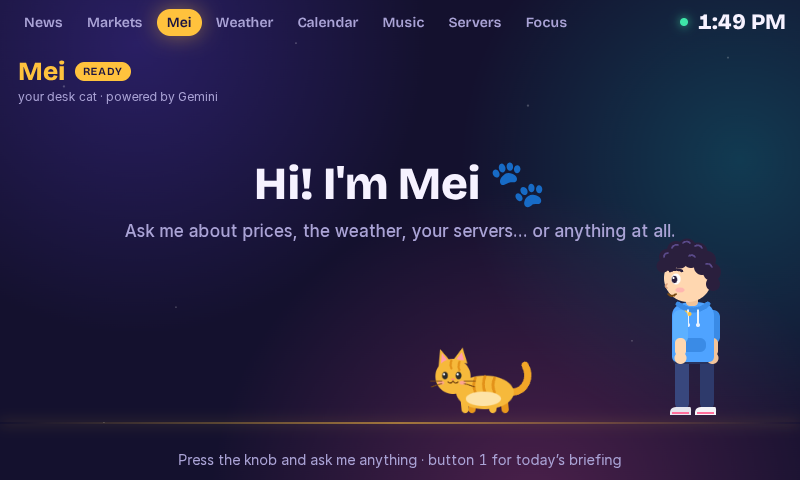
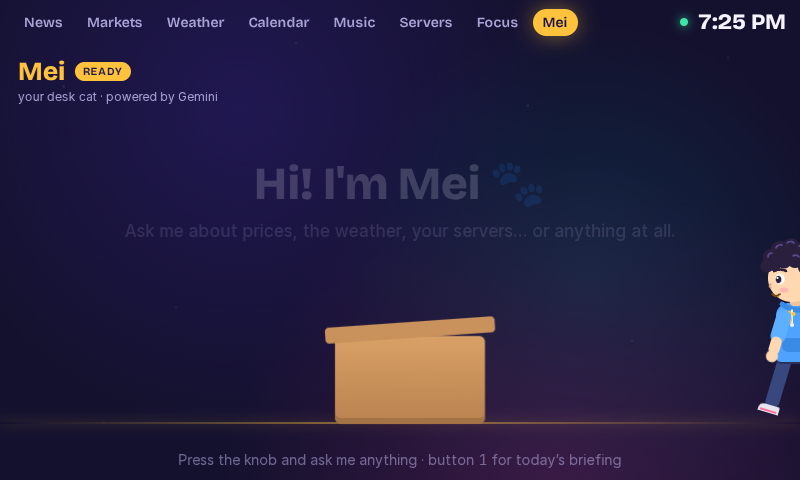
Docs and screenshots for night mode, Servers views and the Car Thing check

diff --git a/README.md b/README.md
@@ -2,9 +2,9 @@
 
 # Car Thing Desk Hub
 
-**A bricked Spotify Car Thing, reborn as a desk companion:** live markets, news, weather, your calendar, Spotify, server health, a focus timer, and **Mei**, a little yellow cat you can talk to.
+**A bricked Spotify Car Thing, reborn as a desk companion:** live markets, news, weather, your calendar, Spotify, server health and security, a focus timer, and **Mei**, a little yellow cat you can talk to.
 
-<img src="docs/screenshots/tour.gif" width="720" alt="A tour of the pages on the Car Thing: news and a story summary, markets, Mei, weather, calendar, music, servers">
+<img src="docs/screenshots/tour.gif" width="720" alt="A tour of the pages on the Car Thing: news and a story summary, markets, weather, calendar, music, servers, focus, Mei">
 
 <sub>Recorded from the real device (800 × 480) over DevTools, not a mock-up. Every screenshot below is from the device too.</sub>
 
@@ -25,12 +25,13 @@ The Car Thing never touches the internet. It only talks to the hub, the hub only
 | 📰 **News** | Top stories, Việt Nam, Kinh doanh VN, Tech and Hacker News, refreshed every 2 minutes from Google News RSS and the Hacker News API. Tap a headline, or select it with the knob, for a one-paragraph summary of the actual article, in Vietnamese or English. |
 | 📈 **Markets** | BTC with a rolling odometer price and a 24 h chart; ETH, SOL, BNB, XRP and DOGE streamed in real time over the OKX websocket; gold and silver; SJC and 9999 ring gold in VND; Vietcombank FX; VN-Index, S&P 500, Nasdaq, DXY and oil. Price alerts pop up on any page. |
 | 🐈 **Mei** | Press the knob and talk. The four microphones record, the hub asks Gemini, and Mei answers in English or Vietnamese in a speech bubble. She remembers the last few minutes, so follow-ups work, and knows which story you had open ("what does this one say?"). Every morning at 7 she writes a short **briefing**: weather, today's calendar, BTC and gold, USD/VND, top headlines. While idle, Mei and her owner **Nhat** act out random little scenes. |
-| 🌤 **Weather** | Current conditions, AQI, 12-hour and 4-day forecast (Open-Meteo). The animated sky changes with the real weather. |
+| 🌤 **Weather** | Current conditions, AQI, 12-hour and 4-day forecast (Open-Meteo), and rain in the next two hours in 15-minute steps, with a banner about half an hour before it starts. The animated sky changes with the real weather. |
 | 📅 **Calendar** | Your Google Calendar through its secret iCal link (read-only, no OAuth): what's next with a countdown, then today, tomorrow or the week. Recurring events, exceptions and daylight-saving changes are handled on the hub. A banner pops up 10 minutes before each event, on any page. |
 | 🎵 **Music** | Spotify now playing and controls (PKCE, no client secret), album art proxied through the hub. |
-| 🖥 **Servers** | CPU, memory, disk, temperature, uptime and container health for two home servers. |
+| 🖥 **Servers** | Four views on buttons 1–4. **Now**: CPU, memory, disk, temperature, uptime and container health for two home servers. **24 h**: CPU, memory and temperature graphs. **Security**: failed SSH logins, what the firewall blocked, every port open on all interfaces (a new one raises a banner), and whether the Car Thing still has its setup. **Updates**: pending apt packages, containers with a newer image, and GitHub (latest CI run per repository, open pull requests and issues). |
 | ⏱ **Focus** | A Pomodoro timer: buttons 1–4 set 15, 25, 45 or 60 minutes. |
 | ⚙ **Quick menu** | The round button opens screen brightness, restart, shut down and rotate (each press turns the screen another 90°). |
+| 🌙 **Night** | From 23:00 to 06:30 the backlight goes off. Touch anything and it lights up for two minutes; that first touch only wakes the screen. |
 | 🔌 **Self-healing** | If the hub goes quiet the screen says so and keeps reconnecting, and it reloads itself when the hub comes back with new code. A watcher on the device restarts the kiosk if it got stuck on an error page, and the hardware watchdog reboots it if it ever freezes. |
 
 ### Controls
@@ -45,20 +46,23 @@ The Car Thing never touches the internet. It only talks to the hub, the hub only
 
 | Page | 1 | 2 | 3 | 4 |
 |---|---|---|---|---|
-| News | Top stories | Việt Nam | Tech | Next topic |
+| News | Next topic | Previous topic | | |
 | Markets (zoom) | BTC | Gold | FX | Indices |
-| Mei | Today's briefing | | | |
 | Calendar | Today | Tomorrow | Week | |
 | Music | Previous | Play / pause | Next | Like |
+| Servers | Now | 24 h | Security | Updates |
 | Focus | 15 min | 25 min | 45 min | 60 min |
+| Mei | Today's briefing | | | |
 
-On **News**: press the knob to highlight a story, turn to move, press again (or just tap the story) for its summary. While a summary is open, turning the knob flips to the next story. Turn to Mei with the summary still open and ask her about it.
+Upside down, the preset buttons sit along the bottom edge in reverse order, so the hub swaps them: the one on your left is always 1.
+
+On **News**: press the knob to highlight a story, turn to move, press again (or just tap the story) for its summary. While a summary is open, turning the knob flips to the next story. Turn to Mei (the last page) with the summary still open and ask her about it.
 
 ## Gallery
 
 | | |
 |---|---|
-| <img src="docs/screenshots/01-news.png" width="400"><br>**News**, five topics, buttons 1–4 | <img src="docs/screenshots/16-news-summary.png" width="400"><br>**Story summary** (tap a headline) |
+| <img src="docs/screenshots/01-news.png" width="400"><br>**News**, five topics, buttons 1 and 2 to switch | <img src="docs/screenshots/16-news-summary.png" width="400"><br>**Story summary** (tap a headline) |
 | <img src="docs/screenshots/15-news-browse.png" width="400"><br>**Picking a story** with the knob | <img src="docs/screenshots/03-markets-btc.png" width="400"><br>**Markets → BTC** (button 1) |
 | <img src="docs/screenshots/04-markets-gold.png" width="400"><br>**Markets → Gold** (button 2) | <img src="docs/screenshots/05-markets-fx.png" width="400"><br>**Markets → FX** (button 3) |
 | <img src="docs/screenshots/09-mei-answer.png" width="400"><br>**Mei answering** a spoken question | <img src="docs/screenshots/08-mei-nhat-1.png" width="400"><br>**Mei and Nhat**: the fish sandwich heist |
@@ -102,21 +106,26 @@ flowchart LR
   subgraph s2["Server 2 (the brain)"]
     HUB["carthing-hub<br/>Node 22, read-only container"]
     DS2["docker-status<br/>read-only sidecar"]
+    HR2["host-report.sh · check-carthing.sh<br/>cron, no root"]
     FW["UFW + DOCKER-USER<br/>USB: only :8787 and NTP"]
   end
   subgraph s1["Server 1"]
     AG["hub-stats-agent<br/>push only, no ports"]
     DS1["docker-status sidecar"]
+    HR1["host-report.sh<br/>cron, no root"]
   end
-  NET(("Free APIs<br/>OKX · Yahoo · gold-api · PNJ<br/>Vietcombank · Open-Meteo<br/>Google News · HN · Gemini<br/>Spotify · Google Calendar (iCal)"))
+  NET(("Free APIs<br/>OKX · Yahoo · gold-api · PNJ<br/>Vietcombank · Open-Meteo<br/>Google News · HN · Gemini<br/>Spotify · Google Calendar (iCal)<br/>GitHub · image registries"))
 
   CT <-- "USB CDC-NCM<br/>10.42.1.0/29" --> FW --> HUB
   DS2 --> HUB
+  HR2 -- "read-only file" --> HUB
+  HR1 --> AG
   DS1 --> AG -- "token + source IP<br/>POST /api/ingest" --> HUB
   HUB -- "outbound HTTPS only" --> NET
 ```
 
-* **The Car Thing is a screen, not a computer you trust.** It runs Chromium in kiosk mode pointed at the hub, plus two tiny shell helpers: one applies the brightness you pick, the other records the microphones when you talk to Mei. It has no route to the LAN or the internet.
+* **The Car Thing is a screen, not a computer you trust.** It runs Chromium in kiosk mode pointed at the hub, plus three tiny shell helpers: one applies the brightness you pick (and switches the backlight off at night), one records the microphones when you talk to Mei, one reloads the kiosk if it gets stuck. It has no route to the LAN or the internet. After a Nocturne update, `check-carthing.sh` on server 2 checks all of that and puts back whatever the update reset.
+* **Security data without new privileges.** A small cron script on each server (run as the normal user, which can read the journal) writes failed SSH logins, firewall blocks, open ports and pending updates to a JSON file. The hub reads server 2's file through a read-only mount; server 1's agent sends its file along with the stats. Image update checks are anonymous `HEAD` requests to the registries.
 * **The hub is the brain.** One Node.js process with no dependencies gathers every data source, keeps all keys, and streams state to the screen over Server-Sent Events. It runs in a read-only container with every capability dropped and no `docker.sock`.
 * **Everything is free.** No paid API is required. The two optional extras that would cost money (Google Search grounding for Mei, and paid Gemini tiers) are off by default. When the main Gemini model runs out of its free daily quota, Mei switches to Flash-Lite on her own.
 
@@ -127,14 +136,15 @@ More detail: **[docs/ARCHITECTURE.md](docs/ARCHITECTURE.md)** · the whole story
 ```
 hub/            the brain: Node 22 server, UI, config, compose file
   server/       index.mjs (data sources, HTTP/SSE), assistant.mjs (Mei), news.mjs, calendar.mjs,
-                spotify.mjs, alerts.mjs, docker-status.mjs
-  test/         node:test suite (calendar recurrence and time zones)
+                spotify.mjs, alerts.mjs, history.mjs, security.mjs, registry.mjs, github.mjs,
+                docker-status.mjs
+  test/         node:test suite (calendar recurrence and time zones, image references, host reports)
   public/       index.html, app.js (pages + controls), stage.js (Mei & Nhat),
                 style.css + theme.css, fonts/ (Bricolage Grotesque, OFL)
 agent/          server-1 stats agent (push only) + its compose file
 carthing/       files that live on the Car Thing: helpers, kiosk override and watcher, sshd, NTP, watchdog
-host/           server-2 host config: netplan, UFW / DOCKER-USER rules, sysctl, chrony
-tools/          setup scripts for secrets, DevTools helpers (screenshots, the GIF, error capture)
+host/           server-2 host config: netplan, UFW / DOCKER-USER rules, sysctl, chrony; host-report.sh (cron)
+tools/          setup scripts for secrets, check-carthing.sh (run after Nocturne updates), DevTools helpers (screenshots, the GIF, error capture)
 docs/           SETUP, ARCHITECTURE, SECURITY, DEVLOG, screenshots
 ```
 
@@ -146,7 +156,7 @@ See **[docs/SETUP.md](docs/SETUP.md)**. In short: flash Nocturne 4 onto the Car 
 
 * [Nocturne](https://github.com/usenocturne/nocturne): the firmware that makes the Car Thing usable again. This project runs on top of it and only replaces the page the kiosk shows.
 * [flashthing](https://github.com/JoeyEamigh/flashthing): flashing tool.
-* Data: [OKX](https://www.okx.com/docs-v5/), Yahoo Finance, [gold-api.com](https://gold-api.com), PNJ, Vietcombank, [Open-Meteo](https://open-meteo.com), Google News RSS, [Hacker News API](https://github.com/HackerNews/API), [Gemini API](https://ai.google.dev), [Spotify Web API](https://developer.spotify.com).
+* Data: [OKX](https://www.okx.com/docs-v5/), Yahoo Finance, [gold-api.com](https://gold-api.com), PNJ, Vietcombank, [Open-Meteo](https://open-meteo.com), Google News RSS, [Hacker News API](https://github.com/HackerNews/API), [Gemini API](https://ai.google.dev), [Spotify Web API](https://developer.spotify.com), [GitHub REST API](https://docs.github.com/rest).
 * Typeface: [Bricolage Grotesque](https://github.com/ateliertriay/bricolage) (SIL Open Font License, see `hub/public/fonts/OFL.txt`).
 
 This is a personal project and is not affiliated with Spotify, Nocturne, or any data provider. Respect each provider's terms; some of the endpoints used here are unofficial.

diff --git a/docs/DEVLOG.md b/docs/DEVLOG.md
@@ -28,8 +28,9 @@
 19. [News: 10 chủ đề và tóm tắt bài báo](#19-news)
 20. [Chế độ dọc, menu nổi, 4 nút theo trang](#20-chế-độ-dọc-menu-nổi-4-nút-theo-trang)
 21. [Màn hình tự tắt, và đợt nâng cấp thứ hai](#21-màn-hình-tự-tắt-và-đợt-nâng-cấp-thứ-hai)
-22. [Bảng tổng hợp lỗi](#22-bảng-tổng-hợp-lỗi)
-23. [Những điều rút ra](#23-những-điều-rút-ra)
+22. [Đợt nâng cấp thứ ba: ban đêm, bảo mật, cập nhật](#22-đợt-nâng-cấp-thứ-ba-ban-đêm-bảo-mật-cập-nhật)
+23. [Bảng tổng hợp lỗi](#23-bảng-tổng-hợp-lỗi)
+24. [Những điều rút ra](#24-những-điều-rút-ra)
 
 ---
 
@@ -463,7 +464,58 @@ Cách sửa: khi model chính trả 429, hub **tự gửi lại cùng yêu cầu
 * **GIF demo** ở đầu README: quay bằng `Page.startScreencast` của DevTools (671 khung hình trong 34 giây), ghép bằng ffmpeg trong một container dùng xong là xoá, ra GIF 560 px nặng 7,5 MB.
 * **GitHub:** bật Secret scanning và Push protection, thêm một workflow kiểm tra cú pháp và chạy test mỗi lần push.
 
-## 22. Bảng tổng hợp lỗi
+## 22. Đợt nâng cấp thứ ba: ban đêm, bảo mật, cập nhật
+
+### Những gì thêm vào
+
+* **Ban đêm (23:00 đến 6:30).** Hub trả về độ sáng `0`, và `brightness-sync` tắt hẳn đèn nền. Vặn núm, bấm nút hay chạm vào màn hình thì sáng lại 2 phút, mỗi lần dùng tiếp lại được cộng thêm. **Lần chạm đầu tiên chỉ để đánh thức**, không bấm vào thứ gì: chạm trong bóng tối mà lỡ bấm "Shut down" thì rất khó chịu. Lúc tối, mọi animation cũng dừng cho Car Thing nghỉ. Mức sáng ban ngày vẫn lưu trong cấu hình của `nocturned`; tắt và bật lại ban đêm chỉ ghi thẳng vào đèn nền, không khởi động lại `nocturned`, nên màn hình phản ứng trong vòng một lần poll (2 giây).
+* **Báo mưa 2 giờ tới.** Open-Meteo có dữ liệu theo từng 15 phút (`minutely_15`). Trang Weather có thêm một dải "Rain likely in about 20 min" kèm 9 cột nhỏ, và khoảng 30 phút trước khi mưa, banner xanh hiện lên ở mọi trang (tối đa 3 giờ một lần).
+* **Trang Servers có 4 chế độ** trên nút 1 đến 4:
+  1. **Now:** như cũ.
+  2. **24 h:** biểu đồ CPU, RAM, nhiệt độ của hai server, trung bình 10 phút, lưu vào `state/history.json` để khởi động lại hub không mất.
+  3. **Security:** số lần đăng nhập SSH thất bại (1 giờ và 24 giờ, kèm IP thử nhiều nhất), số gói tin firewall chặn (kèm nguồn và cổng), danh sách **cổng mở trên mọi interface**, cổng Docker publish ra `0.0.0.0` (nhắc lại: Docker bỏ qua UFW), và tình trạng cài đặt của Car Thing.
+  4. **Updates:** số gói `apt` chờ cập nhật, container nào có image mới hơn, và GitHub: lần chạy CI gần nhất của 4 repo mới push, số pull request và issue đang mở.
+* **Script kiểm tra Car Thing sau khi cập nhật Nocturne** (`check-carthing.sh`). Cập nhật Nocturne có thể ghi đè `/etc` và `/root`. Script so từng file với bản trong repo (SHA-256), kiểm tra kiosk còn trỏ về hub, key của hub còn trong `authorized_keys`, SSH vẫn từ chối mật khẩu, đồng bộ giờ còn bật, ba script phụ còn chạy; thiếu gì thì cài lại. Nếu bản cập nhật xoá mất key, script hỏi mật khẩu root một lần (mặc định của Nocturne) để đặt lại key rồi làm tiếp bằng key. Cron chạy nó mỗi giờ ở chế độ chỉ kiểm tra; thấy lệch là banner đỏ hiện lên.
+* **Thay đổi nhỏ theo yêu cầu:** trang News bỏ số trên từng chủ đề, nút 1 là chủ đề kế, nút 2 là chủ đề trước. Mei chuyển xuống trang cuối cùng. Nhãn "Landscape, upside down" tràn khỏi ô trong menu nên đổi thành "Upside down".
+
+### Lấy dữ liệu bảo mật mà không cấp thêm quyền
+
+Cách dễ nhất là cho hub đọc thẳng journal và `docker.sock` của host. Nhưng như thế thì một lỗi trong hub (thứ nhận dữ liệu từ Car Thing và từ internet) thành quyền root trên server. Nên làm ngược lại:
+
+* Một script nhỏ `host-report.sh` chạy bằng **cron của user thường** mỗi 5 phút. User này nằm trong nhóm `adm`, đủ để đọc journal, không cần `sudo`. Script ghi ra một file JSON.
+* Server 2: hub đọc file đó qua một **mount chỉ-đọc**. Server 1: agent đọc file (cũng chỉ-đọc) và gửi kèm số liệu, mỗi phút một lần, qua đường `/api/ingest` đã có token. Hub chỉ giữ đúng các trường mong đợi, cắt độ dài cố định.
+* Kiểm tra image mới: sidecar `docker-status` (vốn đã có `docker.sock`) báo thêm tên image và digest lúc pull. Hub hỏi registry bằng `HEAD` ẩn danh (Docker Hub không tính `HEAD` vào giới hạn pull), 6 giờ một lần.
+* Không mở thêm cổng nào. Hai kết nối ra ngoài mới, đều chỉ đọc: GitHub API và các registry.
+
+Lần đầu mỗi server gửi báo cáo, mọi cổng đang mở được coi là "đã biết". Từ đó về sau, một cổng mới mở trên mọi interface sẽ bật banner và được đánh dấu **new** trong một ngày.
+
+### Trang xem trước trên LAN không còn thấy mọi thứ
+
+Trang `10.10.10.20:8787` vốn cho bất kỳ máy nào trong LAN xem (chỉ đọc). Với lịch, kết quả bảo mật và GitHub thì "chỉ đọc" vẫn là lộ: danh sách cổng đang mở và IP đang dò SSH chính là bản đồ cho kẻ đang dò mạng. Giờ hub gửi hai bản trạng thái: Car Thing nhận đầy đủ, mọi máy khác nhận bản đã lược bỏ lịch, bảo mật, cập nhật, GitHub, câu trả lời của Mei và các banner bảo mật. Muốn một máy cụ thể xem đầy đủ thì thêm IP vào `PREVIEW_FULL_FROM`.
+
+Vì lý do tương tự, ảnh chụp trong README **không có** chế độ 24 h, Security và Updates: chúng hiện địa chỉ, cổng và tên container thật trong mạng nhà.
+
+### Lỗi #19: chạm trong bóng tối vẫn lọt một phím
+
+Thử trên máy thật: lúc màn hình tối, bấm hai lần sang phải cách nhau 300 ms. Lần đầu chỉ đánh thức, đúng. **Lần hai lại chuyển trang.** Lý do: hub trả lời và đẩy trạng thái "đã sáng" về trong khoảng 300 ms, trong khi đèn nền phải đợi `brightness-sync` poll (tối đa 2 giây) mới thật sự sáng. Với màn hình, "đã sáng" sớm hơn với mắt người gần 2 giây. Sửa: sau khi gửi lệnh đánh thức, mọi thao tác trong 2,5 giây tiếp theo vẫn bị nuốt. Thử lại: hai phím lúc tối không làm gì, phím thứ ba (đã sáng) chuyển trang bình thường.
+
+### Lỗi #20: `systemctl reload sshd` báo không có unit
+
+Lần chạy đầu của `check-carthing.sh` ở chế độ sửa báo `Unit sshd.service not found`. Trên Nocturne, SSH được **kích hoạt qua socket** (`sshd.socket`): mỗi kết nối mới chạy một tiến trình `sshd` riêng và tự đọc lại cấu hình. Không có gì để reload, chỉ cần `sshd -t` kiểm tra cú pháp. Hướng dẫn trong SETUP cũng sửa theo.
+
+### Lỗi #21: firewall "chặn" chính Car Thing hàng chục lần
+
+Bản đầu của `host-report.sh` đếm mọi dòng `[UFW BLOCK]`: hơn 2.000 mỗi ngày. Phần lớn là multicast IPv6 của router (`ff02::1`), thứ mọi mạng LAN đều có. Bỏ multicast và broadcast đi vẫn còn Car Thing → 8787 bị chặn 78 lần. Hoá ra đa số là **gói ACK/FIN đến muộn** của các kết nối đã đóng (long-poll của Mei, SSE), conntrack coi là không hợp lệ nên UFW ghi log. Giờ chỉ đếm **lần mở kết nối mới** (TCP có SYN, không có ACK) và gói UDP. Những gì còn lại là thật: Car Thing gõ vào cổng 8787 lúc hub đang khởi động lại (cổng Docker tạm thời biến mất), và vài lần Car Thing thử một cổng khác trên server 2. Firewall chặn đúng như thiết kế.
+
+### Những thứ chạm vào bàn phím mà không ai nghĩ tới
+
+Khi lật ngược màn hình 180°, núm vặn **không** bị ngược: xoay trong mặt phẳng màn hình thì chiều kim đồng hồ vẫn là chiều kim đồng hồ. Thứ bị ngược là những thứ dựa trên toạ độ:
+
+* **Vuốt** để đổi trang: trình duyệt báo toạ độ của màn hình, không phải của giao diện đã xoay, nên lật ngược thì vuốt trái thành vuốt phải, còn ở chế độ dọc thì vuốt ngang thành vuốt dọc. Giờ toạ độ được đổi sang hệ của giao diện trước khi tính.
+* **Chạm vào thanh độ sáng**: dùng `offsetX` (toạ độ trong chính phần tử, đã tính phép xoay) thay cho `clientX`.
+* **4 nút preset**: lật ngược thì chúng nằm ở cạnh dưới theo thứ tự 4-3-2-1. Hub đảo lại để nút bên trái luôn là nút 1.
+
+## 23. Bảng tổng hợp lỗi
 
 | # | Triệu chứng | Nguyên nhân gốc | Cách sửa |
 |---|---|---|---|
@@ -488,8 +540,11 @@ Cách sửa: khi model chính trả 429, hub **tự gửi lại cùng yêu cầu
 | 16 | Đồng hồ số BTC không cuộn | Cùng nguyên nhân: `/d/` thay vì `/\d/` | Như trên |
 | 17 | Gemini 429 sau vài câu hỏi | Gói miễn phí của model Flash mới chỉ có 20 lượt/ngày | Tự chuyển sang Flash-Lite khi gặp 429 |
 | 18 | Kẹt trang lỗi nếu hub tắt lúc Car Thing khởi động | Code tự kết nối lại nằm trong trang chưa tải được | `kiosk-watch.sh` khởi động lại kiosk khi hub trả lời |
+| 19 | Chạm lúc màn hình tối vẫn lọt một phím | Trạng thái "đã sáng" về trước khi đèn nền sáng thật (tối đa 2 giây) | Nuốt mọi thao tác trong 2,5 giây sau khi đánh thức |
+| 20 | `reload sshd` thất bại trên Car Thing | SSH của Nocturne kích hoạt qua socket, không có `sshd.service` | Chỉ cần `sshd -t` |
+| 21 | Số gói bị chặn cao bất thường | Đếm cả multicast và gói ACK/FIN muộn của kết nối đã đóng | Chỉ đếm lần mở kết nối mới |
 
-## 23. Những điều rút ra
+## 24. Những điều rút ra
 
 1. **Đo trên thiết bị thật, không đoán.** Font, FPS, mức âm thanh của micro, giờ hệ thống: lần nào thiết bị thật cũng khác với giả định.
 2. **"Không tin mặc định" là công cụ thiết kế, không chỉ là bảo mật.** Nó quyết định Car Thing không giữ key, hub không cầm `docker.sock`, agent chỉ đẩy dữ liệu đi, và firewall nằm trên đúng máy.

diff --git a/docs/ARCHITECTURE.md b/docs/ARCHITECTURE.md
@@ -5,13 +5,15 @@
 | Component | Where | What it does |
 |---|---|---|
 | **Kiosk** | Car Thing | Nocturne 4's Chromium 147 (`cast_shell`, single process) in kiosk mode, pointed at `http://10.42.1.6:8787/` through `/var/lib/hub/kiosk-env`. |
-| **brightness-sync.sh** | Car Thing | Polls `GET /api/brightness` every 2 s, writes Nocturne's `/var/lib/brightness.json` with `auto:false`, restarts `nocturned`, writes the backlight. Also puts the backlight back every 2 s, because `nocturned` sets it to 0 whenever it restarts (which happens each time Mei records). |
+| **brightness-sync.sh** | Car Thing | Polls `GET /api/brightness` every 2 s. A new daytime level goes into Nocturne's `/var/lib/brightness.json` with `auto:false` and `nocturned` is restarted to load it; `0` (night) and waking up only write the backlight. Also puts the backlight back every 2 s, because `nocturned` sets it to 0 whenever it restarts (which happens each time Mei records). |
 | **kiosk-watch.sh** | Car Thing | Every 15 s asks Chromium's DevTools (loopback) which page is open. If it is not the hub (for example an error page because the hub was down at boot) and the hub answers `/health`, restarts the kiosk. |
 | **systemd watchdog** | Car Thing | `RuntimeWatchdogSec=30s` on the Amlogic hardware watchdog: a frozen system reboots itself. |
 | **voice-agent.sh** | Car Thing | Long-polls `GET /api/voice/cmd`. On `record`: pauses `nocturned` (which holds the mics), runs `arecord` on `hw:0,0` (4 ch, S32_LE, 16 kHz), reports `/api/voice/started`, uploads the WAV on `stop`. Also runs `reboot` / `poweroff`. |
 | **carthing-hub** | Server 2 (Docker) | Node 22, no dependencies. Collects every data source, keeps all keys, serves the UI and streams state over SSE. |
 | **docker-status** | Server 2 and Server 1 | The only container with `docker.sock` (read-only mount). Answers `GET /` with container names, state and health. No host port. |
-| **hub-stats-agent** | Server 1 (Docker) | Every 5 s pushes CPU, memory, disk, temperature, load, uptime and the container list to `POST /api/ingest`. No ports. |
+| **hub-stats-agent** | Server 1 (Docker) | Every 5 s pushes CPU, memory, disk, temperature, load, uptime and the container list to `POST /api/ingest`, plus the host report once a minute. No ports. |
+| **host-report.sh** | Server 2 and Server 1 (cron, normal user) | Every 5 min writes failed SSH logins, UFW blocks, sockets open on every interface and pending apt updates to a JSON file (read-only mount into the hub / the agent). |
+| **check-carthing.sh** | Server 2 (by hand, and hourly from cron with `--json`) | Compares the Car Thing's helpers and `/etc` files with `carthing/`, checks the kiosk override, key, sshd and time sync, and puts back what a Nocturne update reset. |
 
 ## Data sources (all free, no paid keys)
 
@@ -23,12 +25,15 @@
 | SJC and ring gold | PNJ (`giaban × 10,000` = VND per tael) | 5 min |
 | FX (VND) | Vietcombank XML (max 1 request / 5 min) | 5 min 5 s |
 | Weather, AQI | Open-Meteo forecast and air-quality APIs | 10 / 15 min |
+| Rain in the next 2 h | Open-Meteo `minutely_15` (precipitation and probability) | 5 min |
 | Headlines | Google News RSS (sections and `when:1d` searches), Hacker News Firebase API | 2 min |
 | Story summaries | Google News link → publisher URL (`batchexecute`), article text, Gemini `flash-lite` | on tap, cached |
 | Mei | Gemini (`gemini-flash-latest`, falling back to `flash-lite` on HTTP 429) with the dashboard snapshot, the open story and the last 10 minutes of conversation | on demand |
 | Morning briefing | Same model, text only, from the dashboard snapshot | `BRIEFING_AT` (07:00) and button 1 on Mei's page |
 | Calendar | Secret iCal links (`CALENDAR_ICS`), parsed and expanded on the hub | 5 min |
 | Spotify | Web API, Authorization Code + PKCE | 4 s |
+| Image updates | The image's registry (Docker Hub, ghcr.io, …): anonymous `HEAD` of the tag's manifest, compared with the digest the container was pulled by | 6 h |
+| GitHub | REST API: newest repositories, latest Actions run each, open issues and pull requests (search). ETags, no token needed for public repositories | 10 min (5 with a token) |
 
 ## Hub internals
 
@@ -39,6 +44,10 @@ hub/server/
   assistant.mjs      Mei: command channel to the Car Thing, audio processing, Gemini
   news.mjs           feeds, Google News link decoding, article reading, summaries
   calendar.mjs       iCal parsing, time zones, RRULE / EXDATE / RECURRENCE-ID expansion
+  history.mjs        24 h of 10-minute averages per server, saved in state/history.json
+  security.mjs       host reports, ports seen before, Car Thing check, security banners
+  registry.mjs       newer-image checks against the registries
+  github.mjs         CI runs, open issues and pull requests
   spotify.mjs        PKCE linking, polling, actions, album-art proxy
   docker-status.mjs  the read-only sidecar
 ```
@@ -47,6 +56,8 @@ hub/server/
 * **Clock.** Every SSE message carries the hub's time; the UI uses `clockOffset` for the clock and for staleness checks (the Car Thing also gets NTP from the hub now).
 * **Liveness and updates.** Besides state pushes, the hub sends a named `hb` event every 10 s (SSE comments never reach JavaScript, so they cannot tell a quiet hub from a dead link). After 25 s of silence the UI shows a "Reconnecting" card and opens a fresh `EventSource` every 30 s. Every message also carries `v`, an id that changes each time the hub starts; when the UI sees a new one it reloads, so new UI code reaches the Car Thing without touching it.
 * **Calendar.** Times with a `TZID` are converted with `Intl` (offset checked twice so the hour around a DST change lands right). Recurring events are expanded in wall-clock time of their own zone, so a 10 am meeting stays at 10 am across DST. Daily and weekly series without `COUNT` start counting near the window instead of from their first year. `hub/test/calendar.test.mjs` covers these cases.
+* **Two views of the state.** The Car Thing (and addresses in `PREVIEW_FULL_FROM`) get everything. Any other client, i.e. the LAN preview, gets the state without calendar events, security and update details, GitHub, Mei's answers and the security / CI banners.
+* **Night.** Between `NIGHT_DIM`'s times the hub answers `0` to `GET /api/brightness`. Any input on the Car Thing calls `POST /api/display/wake`, which lights it for `WAKE_MINUTES`; the UI swallows that first input (and anything in the 2.5 s the backlight needs to come on) so a tap in the dark does not press anything.
 * **Command channel.** `GET /api/voice/cmd` is a 25 s long-poll held open by `voice-agent.sh`. The hub answers it with `record <id> <seconds>`, `stop <id>`, `reboot` or `poweroff`.
 * **Audio.** The WAV arrives as 4-channel 32-bit PCM. The hub averages the channels, resamples to 16 kHz, removes the DC offset, drops the first 150 ms, measures 50 ms windows (noise = 20th percentile, loud = 95th percentile), and only calls Gemini when loud ≥ 4 × noise and ≥ RMS 20. Gain is normalised up to 40×.
 
@@ -54,7 +65,7 @@ hub/server/
 
 ```
 hub/public/
-  index.html   pages: News, Markets, Mei, Weather, Calendar, Music, Servers, Focus; quick menu; offline card
+  index.html   pages: News, Markets, Weather, Calendar, Music, Servers, Focus, Mei; quick menu; offline card
   app.js       rendering, controls, quick menu, orientation, News browse/summary, Markets zoom, Calendar
   stage.js     Mei & Nhat: actors, scene toolkit, 7 scenes
   style.css    layout
@@ -64,7 +75,7 @@ hub/public/
 * **Render only what is visible.** `render()` draws the current page; other pages render when opened.
 * **Diff per child.** `setVal()` parses new row markup into a `<template>` and replaces only the child elements whose markup changed, so a new price does not rebuild the sparkline next to it.
 * **GPU only.** Every looping animation uses `transform` / `opacity` with `will-change`; effects that force repaints (`text-shadow` flashes, `filter` glows, shimmer inside `overflow:hidden`) were removed.
-* **Orientation.** Four steps of 90°. Portrait lays `#app` out at 480 × 800 and rotates it ±90° with `transform`; upside-down landscape is a plain `rotate(180deg)`. The choice is stored in the Car Thing's `localStorage`.
+* **Orientation.** Four steps of 90°. Portrait lays `#app` out at 480 × 800 and rotates it ±90° with `transform`; upside-down landscape is a plain `rotate(180deg)`. The choice is stored in the Car Thing's `localStorage`. Touch input arrives in screen coordinates, so swipes are mapped into the rotated layout, and upside down the preset buttons are swapped (4 ↔ 1, 3 ↔ 2) because they now sit along the bottom edge in reverse order.
 
 ## Network
 
@@ -74,6 +85,7 @@ hub/public/
 | Server 1 → Server 2 | LAN | `POST /api/ingest` with token, accepted only from `10.10.10.21` |
 | LAN → Server 2 | LAN | SSH, the hub's LAN preview (`10.10.10.20:8787`, read-only), admin UIs |
 | Hub → Internet | outbound HTTPS | data sources above |
+| Server 2 → Car Thing | USB, SSH with the hub key | `check-carthing.sh` (hourly, read-only checks; fixes only when run by hand) |
 
 `net.ipv4.ip_nonlocal_bind=1` lets Docker publish `10.42.1.6:8787` before the Car Thing is plugged in.
 
@@ -81,9 +93,9 @@ hub/public/
 
 | Endpoint | Who may call it |
 |---|---|
-| `GET /`, `/events`, `/api/state`, static files | anyone who can reach the port (read-only) |
+| `GET /`, `/events`, `/api/state`, static files | anyone who can reach the port (read-only); everyone but the Car Thing gets the trimmed state |
 | `GET /api/brightness` | anyone (read-only) |
-| `POST /api/brightness`, `/api/voice/*` (start, stop, briefing, dismiss, and the recorder's channel), `/api/device/*`, `/api/spotify/{toggle,next,prev,volume,like}` | Car Thing only (`10.42.1.2`) |
+| `POST /api/brightness`, `/api/display/wake`, `/api/voice/*` (start, stop, briefing, dismiss, and the recorder's channel), `/api/device/*`, `/api/spotify/{toggle,next,prev,volume,like}` | Car Thing only (`10.42.1.2`) |
 | `POST /api/ingest` | `INGEST_FROM` address **and** bearer token |
 | `GET /spotify/link` | not the Car Thing |
 | `GET /callback` | valid one-time `state` (≤ 10 min old) |

diff --git a/docs/SETUP.md b/docs/SETUP.md
@@ -41,7 +41,7 @@ Allow SSH from the LAN **before** enabling UFW over SSH (the script does it firs
 cd hub
 cp .env.example .env && chmod 600 .env    # fill INGEST_TOKEN, GEMINI_API_KEY, SPOTIFY_CLIENT_ID as wanted
 sudoedit docker-compose.yml                # group_add: the GID of /var/run/docker.sock (stat -c %g)
-mkdir -p state
+mkdir -p state host-report    # create both yourself, or Docker creates them owned by root
 docker compose up -d
 curl -s http://10.10.10.20:8787/health     # ok
 ```
@@ -76,14 +76,25 @@ scp ~/.ssh/carthing_ed25519.pub $CT:/root/.ssh/authorized_keys
 scp carthing/10-hub.conf $CT:/etc/systemd/timesyncd.conf.d/
 scp carthing/10-hardening.conf $CT:/etc/ssh/sshd_config.d/
 scp carthing/10-watchdog.conf $CT:/etc/systemd/system.conf.d/   # reboot by itself if it ever freezes
-ssh $CT 'sshd -t && systemctl unmask systemd-timesyncd; systemctl enable systemd-timesyncd; sync; mount -o remount,ro /; systemctl daemon-reexec; systemctl reload sshd; systemctl restart systemd-timesyncd chromium-kiosk'
+ssh $CT 'sshd -t && systemctl unmask systemd-timesyncd; systemctl enable systemd-timesyncd; sync; mount -o remount,ro /; systemctl daemon-reexec; systemctl restart systemd-timesyncd chromium-kiosk'
 ```
 
 Check the watchdog is armed: `journalctl -b | grep -i watchdog` should say `Watchdog running with a hardware timeout of 30s`.
 
-Test the key login **before** reloading sshd with the hardening file.
+Test the key login **before** copying the hardening file: sshd is socket-activated on Nocturne, so the next connection already uses it.
 
 To return to the stock Nocturne UI: `rm /var/lib/hub/kiosk-env` and restart `chromium-kiosk`.
+
+### After every Nocturne update
+
+An update can reset `/etc` and `/root` on the Car Thing: the kiosk override, key-only SSH, time sync, the watchdog. Put the repository's `carthing/` folder at `~/carthing-hub/carthing` on the brain, copy `tools/check-carthing.sh` next to the other tools, and run it:
+
+```bash
+~/carthing-tools/check-carthing.sh            # check, then put back whatever is missing or different
+~/carthing-tools/check-carthing.sh --check    # only report
+```
+
+It compares every file with the copy in `carthing/` (SHA-256), checks the kiosk points at the hub, the hub's key is in `authorized_keys`, sshd refuses passwords, time sync is on and the three helpers are running. If the update wiped the key, it asks for the root password once (Nocturne's default is `nocturne`) to put the key back, then continues with the key. Run hourly from cron with `--json`, it also feeds the Car Thing card on Servers → Security (see section 9).
 
 ## 5. Optional: stats from a second server
 
@@ -111,6 +122,34 @@ Several calendars are fine; each gets its own colour on the Calendar page.
 ## 8. Optional: morning briefing
 
 On by default at 07:00 in `WX_TZ`. Change it with `BRIEFING_AT=06:30` (or `off`) and `BRIEFING_LANG=Vietnamese` in `hub/.env`, then restart the hub. Button 1 on Mei's page asks for one any time.
+
+## 9. Optional: Servers → 24 h, Security and Updates
+
+The graphs need nothing: the hub keeps 24 hours of 10-minute averages in `state/history.json`.
+
+Security and update details come from `host/host-report.sh`, run from the normal user's crontab on each server (no root: members of `adm` can read the journal). It writes failed SSH logins, packets UFW blocked (new connections only, without multicast noise), sockets listening on every interface and pending apt updates to a JSON file.
+
+```bash
+# server 2: the hub reads ./host-report through a read-only mount (see docker-compose.yml)
+mkdir -p ~/carthing-hub/host-report
+crontab -e
+*/5 * * * * $HOME/carthing-tools/host-report.sh $HOME/carthing-hub/host-report/report.json
+17 * * * * $HOME/carthing-tools/check-carthing.sh --json $HOME/carthing-hub/host-report/carthing.json >/dev/null 2>&1
+
+# server 1: the agent reads ./report (read-only) and sends it with its stats once a minute
+mkdir -p /srv/apps/hub-stats-agent/report
+*/5 * * * * /srv/apps/hub-stats-agent/host-report.sh /srv/apps/hub-stats-agent/report/report.json
+```
+
+The first report from each server counts what is already open as known. After that, a port that starts listening on every interface (on the host, or a Docker port published on `0.0.0.0`) raises a banner and is marked **new** for a day. Five or more failed SSH logins in an hour also raise one (`SSH_ALERT`).
+
+Containers with a newer image: the docker-status sidecars report each image and the digest it was pulled by; every 6 hours the hub asks the registry (anonymous `HEAD`, which Docker Hub does not count as a pull) for the digest the same tag has now. Images built locally show as unknown and are left out of the count.
+
+GitHub: set `GITHUB_USER` in `hub/.env`. Public repositories need no token. For private ones, create a fine-grained token with read-only Metadata, Actions, Issues and Pull requests, and store it with `ssh -t user@brain ~/carthing-tools/set-github-token.sh`.
+
+## 10. Optional: night
+
+`NIGHT_DIM=23:00-06:30` (the default; `off` to disable) turns the backlight off between those times. The first knob turn, button press or tap only wakes the screen, for `WAKE_MINUTES` (2), and every further input keeps it awake.
 
 ## Development helpers
 

diff --git a/docs/SECURITY.md b/docs/SECURITY.md
@@ -27,7 +27,10 @@ So the Car Thing must not hold secrets, must not reach anything except the hub, 
 | **Server-1 agent** | Push only, no listening ports. The hub requires both the source address and a bearer token (constant-time comparison). |
 | **Spotify linking** | One-time `state`, 10-minute expiry, never started from the Car Thing; the callback stays on loopback through an SSH tunnel. |
 | **Album art proxy** | Only `https://i.scdn.co/`. |
-| **Inbound internet** | None. Every integration is an outbound request. |
+| **Inbound internet** | None. Every integration is an outbound request (including the new ones: GitHub API and the image registries, both read-only). |
+| **LAN preview** | Read-only, and trimmed: no calendar events, security or update details, GitHub, Mei answers or security / CI banners for anyone but the Car Thing (or addresses you list in `PREVIEW_FULL_FROM`). A list of open ports and failed-login sources is a map for whoever is probing the LAN. |
+| **Host reports** | `host-report.sh` runs from the normal user's crontab (reads the journal as a member of `adm`, no sudo). Its output reaches the hub as a file through a read-only mount (server 2) or inside the agent's authenticated push (server 1), where the hub keeps only the expected fields, clipped to fixed lengths. No new ports. |
+| **Car Thing drift** | `check-carthing.sh` compares the device with the repository after Nocturne updates and hourly from cron, so a reset that turns password SSH back on or drops the hardening shows up as a red banner. Fixing needs a person to run it. |
 | **Repository** | GitHub secret scanning and push protection are on; CI checks syntax and runs the tests on every push. |
 
 ## Two traps worth knowing
@@ -40,6 +43,7 @@ So the Car Thing must not hold secrets, must not reach anything except the hub, 
 * Mei sends your recorded question and the dashboard snapshot to the Gemini API. On Google's free tier, inputs may be used to improve Google's products. Do not ask Mei anything sensitive, or use a paid tier.
 * Story summaries send the article text to Gemini in the same way.
 * The morning briefing and Mei's answers include **today's and tomorrow's calendar entries** (times, titles, locations) in what is sent to Gemini. Leave `CALENDAR_ICS` empty, or set `BRIEFING_AT=off`, if that is not acceptable for your calendar.
+* GitHub: with a token, names of private repositories and titles of their issues and pull requests are shown on the Car Thing (never on the LAN preview). Use a fine-grained token, read-only, limited to the repositories you want on the screen.
 * Recordings are not stored: the Car Thing deletes the WAV after upload, and the hub keeps it in memory only for the request.
 
 ## Reporting
